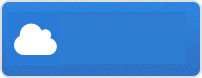
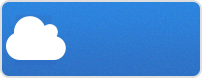
try to remove borders

Changed region(s): [[0.0297, 0.2051, 0.3267, 0.7692]]

diff --git a/main.css b/main.css
@@ -4,3 +4,6 @@ footer {
   position:absolute;
   font-size:75%;
 }
+.demo-btn {
+    background: transparent url(../images/demo-button.png) 0 0 no-repeat !important;
+}
